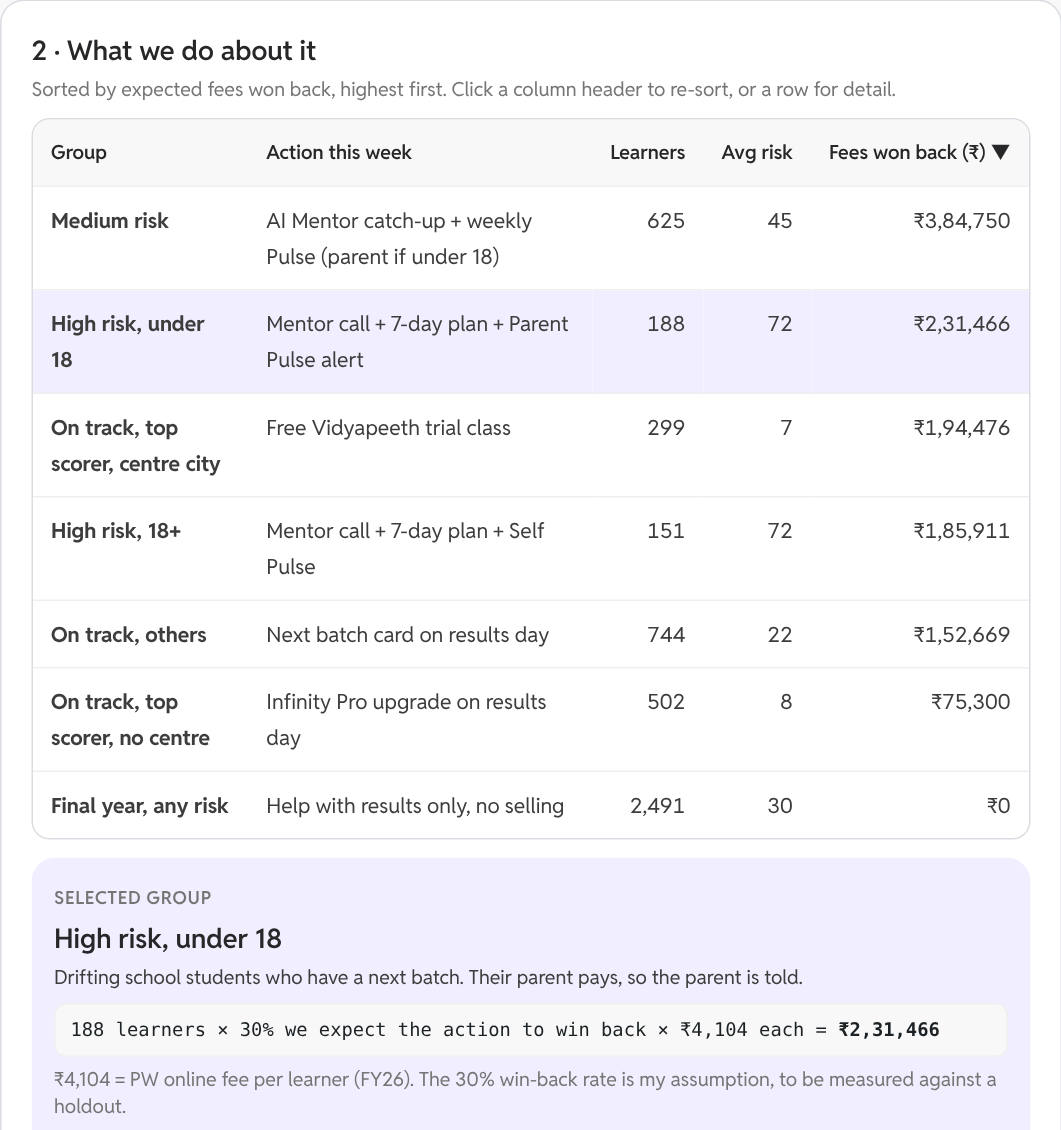
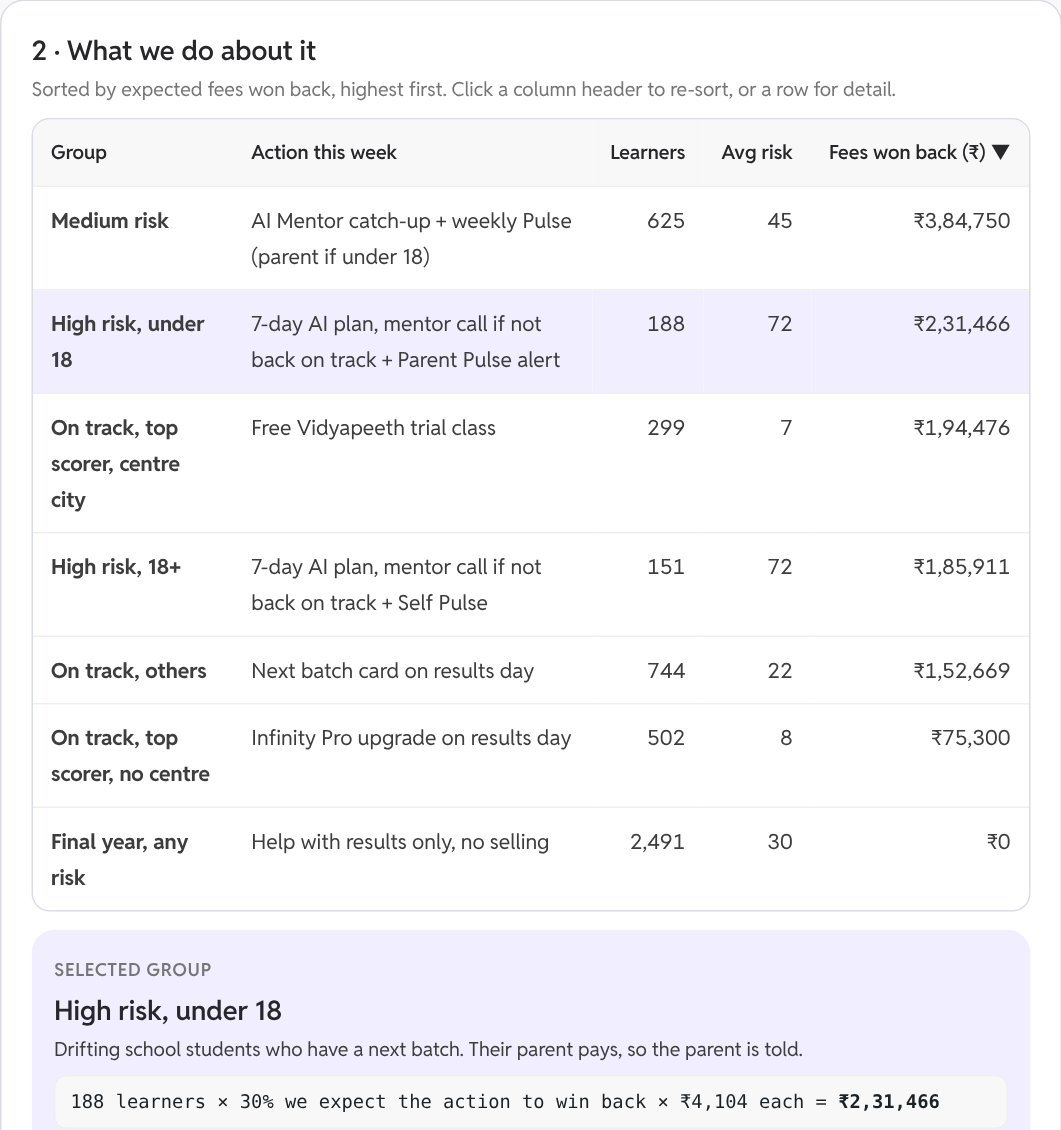
PW case study: price the bet, show a range, add user voices, fix three quotes (#224)
Four changes to /pw-study and its prototype, each checked by an independent
review against the source data.

1. Capacity and cost. The bet promised a human mentor call to every high-risk
   learner, under a "no extra counsellors" constraint. Rescue now escalates: a
   7-day AI comeback plan first, and a mentor call only if the learner is still
   high risk on day 8. Running costs are priced: the Weekly Pulse and offers at
   Meta's India WhatsApp rates (utility 0.115, marketing 0.8631 INR, from
   1 Oct 2026), mentor calls, and AI Mentor plans: 6.15 cr a year. Mentor load
   is about 1,220 hours a week, roughly 30 full-time mentors. The engine, the
   Pulse messages in English and Hindi, the console and the calculator all say
   the same thing, and the calculator now shows a net figure.

2. A range, not a point. Each uplift is shown at half and one and a half times
   base, anchored where possible: 36.5 / 79.1 / 121.8 cr net of running costs.
   The TL;DR and the heading quote the net, and the case study's base figure is
   read against the calculator by the suite.

3. User voice. 1,425 public reviews of the PW app and the Parent App, counted
   reproducibly: 105 of 677 Parent App reviews on Google Play mention reports or
   progress, 58% of them rated 1-3 stars. Six dated, verbatim quotes, no names.
   The reviews also surfaced a new risk, that the progress data itself is
   wrong, added to the risk table with its cheapest test.
[…]

diff --git a/pw-study/index.html b/pw-study/index.html
@@ -78,6 +78,11 @@ section.block:nth-of-type(even){background:#fff}
 @media (max-width:420px){.kpi b{font-size:24px;line-height:30px}.g2m .card{padding:14px}}
 .card{background:var(--surface);border:1px solid var(--border);border-radius:var(--r-card);padding:20px}
 .card.soft{background:var(--primary-50);border-color:transparent}
+.voices-head{display:grid;gap:6px;margin-bottom:12px;max-width:860px}
+.voices{grid-template-columns:repeat(auto-fit,minmax(260px,1fr))}
+.voice{margin:0;padding:16px;display:grid;gap:10px;align-content:space-between}
+.voice blockquote{margin:0;color:var(--heading);font-size:15px;line-height:23px}
+.voice figcaption{font-size:13px;line-height:18px;color:var(--muted)}
 .card.dark{background:var(--ink);border-color:var(--ink);color:#D5D9E0}
 .card.dark h3,.card.dark b{color:#fff}
 .kpi b{display:block;font-size:30px;line-height:36px;color:var(--heading);font-weight:700}
@@ -118,6 +123,8 @@ tr:last-child td{border-bottom:0}
 td.num,th.num{text-align:right;font-variant-numeric:tabular-nums;white-space:nowrap}
 tr.hl td{background:var(--primary-50)}
 .t-wide{min-width:760px} .t-mid{min-width:600px}
+/* The sizing tables carry the numbers that matter: they fit the screen instead of scrolling. */
+@media (max-width:699px){.t-fit th,.t-fit td{padding:10px 8px}}
 /* filters */
 .filters{display:flex;gap:8px;flex-wrap:wrap;margin-bottom:12px}
 .chip{border:1px solid var(--border);background:#fff;color:var(--ink);border-radius:var(--r-pill);padding:8px 14px;font-size:14px;font-weight:600;min-height:40px;font-family:inherit;cursor:pointer}
@@ -193,7 +200,7 @@ footer h3{color:#fff}
       <div class="card"><h3>1 · Two engines</h3><p class="small" style="margin-top:6px">Half of FY26 revenue is online at ₹4,104 per learner a year; offline earns ₹36,625 per student, about 9x more.</p></div>
       <div class="card"><h3>2 · Strong AI, aimed at sale one</h3><p class="small" style="margin-top:6px">Lead routing lifts revenue per lead ~10%; voice bots cut counselling cost ~75%; Ask AI and AI Guru answer doubts at scale.</p></div>
       <div class="card"><h3>3 · Retention tools exist, but scattered</h3><p class="small" style="margin-top:6px">Tracker 360, Prep Meter, the Parent App and 1:1 mentorship are live, but split across plans and apps, and mostly pull-based.</p></div>
-      <div class="card soft"><h3>4 · The bet</h3><p class="small" style="margin-top:6px">Agla Kadam: one layer that reads those signals for every learner, acts by risk and age, and personalises the next batch. My estimate: about ₹85.3 cr ($8.97M) a year.</p></div>
+      <div class="card soft"><h3>4 · The bet</h3><p class="small" style="margin-top:6px">Agla Kadam: one layer that reads those signals for every learner, acts by risk and age, and personalises the next batch. My estimate: ₹85 cr a year in extra collections, about ₹79 cr ($8.3M) after running costs, in a ₹36-122 cr range.</p></div>
     </div>
   </div>
 </section>
@@ -295,17 +302,17 @@ footer h3{color:#fff}
       <tbody>
         <tr data-s="live"><td><b>AI doubt solving</b></td><td><span class="tag live">Live</span></td><td>"24*7 Doubt Resolution powered by Ask AI Feature"; Ask AI 3.05M+ doubts at 91% satisfaction; AI Guru 99.45M+ queries.</td><td>Batch pages; Q4 FY26 letter</td></tr>
         <tr data-s="live"><td><b>AI counselling and lead AI</b></td><td><span class="tag live">Live</span></td><td>Voice bots handle 6,000+ calls a day at ~75% lower cost; smart lead routing gives "~10% higher revenue per lead"; a lead model processed 2+ crore leads.</td><td>Q4 FY26 letter</td></tr>
-        <tr data-s="live"><td><b>Study planner with on-track status</b></td><td><span class="tag live">Live</span></td><td>Tracker 360, "a PW study planner": "30 of 330 done · ends 9 Feb 2027 · 1 day behind schedule"; streaks; "Miss a day and the plan rebalances".</td><td>tracker360.pw.live; included in plans such as NEET 360</td></tr>
+        <tr data-s="live"><td><b>Study planner with on-track status</b></td><td><span class="tag live">Live</span></td><td>Tracker 360, "a PW study planner": shows tasks done against the plan, an end date and how many days the learner is "behind schedule"; streaks; "Miss a day and the plan rebalances around what is left".</td><td>tracker360.pw.live; included in plans such as NEET 360</td></tr>
         <tr data-s="live"><td><b>Chapter preparation tracker</b></td><td><span class="tag live">Live</span></td><td>Prep Meter (Backlog Killer): "Track your chapter-wise preparation level and get personalized roadmap".</td><td>Infinity plan inclusions</td></tr>
         <tr data-s="live"><td><b>Parent visibility</b></td><td><span class="tag live">Live</span></td><td>PW Parent App: "View their attendance, lecture, DPP, and test stats on the student dashboard"; 10L+ downloads, 4.0 rating; parent login at spd.pw.live.</td><td>Google Play com.pw.parent; App Store</td></tr>
-        <tr data-s="live"><td><b>Human mentorship</b></td><td><span class="tag live">Live</span></td><td>Infinity Pro "1:1 Mentorship": "Two 30-minute monthly mentor sessions with PW alumni"; Infinity "Topper Mentorship Program"; Prerna wellbeing teleconsultation.</td><td>Batch pages; Prerna page</td></tr>
+        <tr data-s="live"><td><b>Human mentorship</b></td><td><span class="tag live">Live</span></td><td>Infinity Pro "1:1 Mentorship": "Two 30-minute monthly sessions with PW alumni for career and strategy guidance"; Infinity "Topper Mentorship Program"; Prerna wellbeing teleconsultation.</td><td>Batch pages; Prerna page</td></tr>
         <tr data-s="live"><td><b>AI Mentor</b></td><td><span class="tag live">Live</span></td><td>0.52M+ users served (also available to non-PW students). Not visible on public web pages.</td><td>Q4 FY26 letter</td></tr>
         <tr data-s="part"><td><b>Continuation into next year</b></td><td><span class="tag part">Partial</span></td><td>Combo batches (e.g. Arjuna NEET 2026 + Lakshya NEET 2027); "Free Upcoming Versions"; Vishwas Diwas early buyers "automatically upgraded". CuriousJr only: "preview next year's course offerings and unlock early-enrollment benefits".</td><td>Batch pages; PW news; CuriousJr Play listing</td></tr>
         <tr data-s="part"><td><b>Online to offline</b></td><td><span class="tag part">Partial</span></td><td>Online batches mention "Exam guidance at our PW Offline centers"; Vidyapeeth counselling bookable through the app. No Vidyapeeth trial or demo class found.</td><td>Batch pages; Vidyapeeth Utsav page</td></tr>
         <tr data-s="none"><td><b>Weekly progress report to the learner</b></td><td><span class="tag none">Not found</span></td><td>Only test-performance reports and dashboards; no weekly summary pushed to the learner.</td><td>Searched site, store listings, filings</td></tr>
         <tr data-s="none"><td><b>WhatsApp updates to parents</b></td><td><span class="tag none">Not found</span></td><td>Parent data lives in the app; a parent has to open it. No push digest found.</td><td>Searched site, store listings</td></tr>
         <tr data-s="none"><td><b>Personalised next-batch recommendation on results day (main app)</b></td><td><span class="tag none">Not found</span></td><td>Next-year preview exists in CuriousJr only.</td><td>Searched site, store listings, filings</td></tr>
-        <tr data-s="none"><td><b>Renewal offer for existing online students</b></td><td><span class="tag none">Not found</span></td><td>Vidyapeeth offer FAQ: "The offer is mainly for new enrollments. Existing students may contact their respective centers".</td><td>Vidyapeeth offers page</td></tr>
+        <tr data-s="none"><td><b>Renewal offer for existing online students</b></td><td><span class="tag none">Not found</span></td><td>No renewal or loyalty price for existing online learners on batch pages, offer pages or store listings; the offers found were for new bookings, such as Vidyapeeth Utsav 2026 scholarships.</td><td>Batch and offer pages; Vidyapeeth Utsav page</td></tr>
         <tr data-s="none"><td><b>One layer connecting risk signals to actions</b></td><td><span class="tag none">Not found</span></td><td>Each tool sits in its own plan or app; no public evidence of a cross-plan drift signal that triggers mentor, parent or next-step actions.</td><td>Internal systems not visible publicly</td></tr>
       </tbody></table></div>
     <p class="small muted" style="margin-top:10px">Sorted Live → Partial → Not found. "Not found" means not publicly documented; logged-in experiences, push notifications and internal tools could differ.</p>
@@ -316,6 +323,17 @@ footer h3{color:#fff}
 <section class="block" id="gaps" aria-labelledby="gap-h">
   <div class="wrap">
     <div class="sec-head"><span class="num">05 · Shortcomings</span><h2 id="gap-h">Five places the model leaks revenue</h2></div>
+    <div class="voices-head"><h3>In learners' and parents' own words</h3>
+      <p class="small muted">I read 1,425 public reviews of the PW app and the PW Parent App (680 and 677 on Google Play, 68 on the App Store), collected 26 Oct 2026; the PW app ones are from 2026, the Parent App ones from Feb 2024 on. About half the PW app reviews are 5★ praise for the teaching; of the 270 rated 1-3★, 214 are about bugs or support. In the Parent App, 105 of 677 Google Play reviews (15.5%) mention reports, progress, attendance or results, and 61 of those (58%) rate it 1-3★, mostly because the data is missing, wrong or too thin; most of those are from 2024. Quoted verbatim; names left out.</p></div>
+    <div class="grid voices" id="voices">
+      <figure class="card voice"><blockquote>"It should have overall insights as well, like monthly and overall, and also option to check previous weeks or custom range data."</blockquote><figcaption>Parent App, App Store · 1★ · 3 Aug 2026</figcaption></figure>
+      <figure class="card voice"><blockquote>"the test records and my ward’s attendance are not showing on the portal yet."</blockquote><figcaption>Parent App, Google Play · 1★ · 17 Sep 2026</figcaption></figure>
+      <figure class="card voice"><blockquote>"my child is improving day by day. But your guidance and counseling can play a significant role to make the future of young ones."</blockquote><figcaption>Parent App, Google Play · 5★ · 16 Jul 2026</figcaption></figure>
+      <figure class="card voice"><blockquote>"I paid a hefty amount for the Shreshth 2.0 Infinity batch, yet it expired and I lost access to the content I purchased."</blockquote><figcaption>PW app, Google Play · 1★ · 9 Jul 2026</figcaption></figure>
+      <figure class="card voice"><blockquote>"Please add an option to hide expired batches from seeing while navigating through the 'my batches' section."</blockquote><figcaption>PW app, Google Play · 4★ · 22 Jul 2026</figcaption></figure>
+      <figure class="card voice"><blockquote>"there is mentioned that 1 to 1 mentorship but when we purchase the batch,then there is only paid no mentorship."</blockquote><figcaption>PW app, Google Play · 2★ · 5 Aug 2026</figcaption></figure>
+    </div>
+    <p class="small muted" style="margin:10px 0 20px">What this says: many parents want a pushed, periodic summary and do not trust the one they have to go and find; the end of a batch currently feels like a loss, not a next step; and mentorship promises have to be ones PW can keep, which is why human calls here are capped.</p>
     <div class="tbl"><table class="t-wide">
       <thead><tr><th style="width:22%">Shortcoming</th><th style="width:48%">Evidence</th><th style="width:30%">So what</th></tr></thead>
       <tbody>
@@ -353,7 +371,7 @@ footer h3{color:#fff}
     <div class="sec-head"><span class="num">07 · The bet</span><h2 id="bet-h">Agla Kadam ("next step"): a continuity layer on top of what PW already runs</h2><p>No new learning content, faculty or capex. It connects the signals PW already collects to actions PW already knows how to take, for every learner on every plan.</p></div>
     <div class="grid g3">
       <div class="card mod"><span class="k">01 · PULSE</span><h3 style="margin-top:4px">Spot drift early</h3><p class="small" style="margin-top:6px">A weekly drop-off risk score for every paid learner, read from Tracker 360 and Prep Meter progress, lecture pace, tests, inactivity and doubts. Every score shows its reasons.</p></div>
-      <div class="card mod o"><span class="k">02 · RESCUE</span><h3 style="margin-top:4px">Act by risk and age</h3><p class="small" style="margin-top:6px">High risk: human mentor call and a 7-day plan. Medium: AI Mentor catch-up. Plus a Weekly Pulse on WhatsApp that goes to the parent for under-18s and to the learner for adults, linking into the Parent App.</p></div>
+      <div class="card mod o"><span class="k">02 · RESCUE</span><h3 style="margin-top:4px">Act by risk and age</h3><p class="small" style="margin-top:6px">High risk: a 7-day AI comeback plan first; a human mentor calls only if the learner is still high risk after those 7 days, about 30 full-time mentors' worth of calls across PW. Medium: AI Mentor catch-up. Plus a Weekly Pulse on WhatsApp that goes to the parent for under-18s and to the learner for adults, linking into the Parent App.</p></div>
       <div class="card dark"><span class="k" style="font-size:12px;font-weight:700;letter-spacing:.06em;color:#B9B1FF">03 · NEXT STEP</span><h3 style="margin-top:4px">Personalise results day</h3><p class="small" style="margin-top:6px">A personal year report and the right next batch, plan upgrade or Vidyapeeth trial, timed to results and Vishwas Diwas. CuriousJr's next-year preview, extended to the main app. Offers only when on track.</p></div>
     </div>
     <div class="grid g2" style="margin-top:20px">
@@ -387,25 +405,41 @@ footer h3{color:#fff}
 <!-- IMPACT -->
 <section class="block" id="impact" aria-labelledby="im-h">
   <div class="wrap">
-    <div class="sec-head"><span class="num">09 · Sizing the prize</span><h2 id="im-h">My estimate: about ₹85 cr a year from learners PW already has</h2></div>
+    <div class="sec-head"><span class="num">09 · Sizing the prize</span><h2 id="im-h">My estimate: about ₹79 cr a year after costs, from learners PW already has</h2>
+      <p>A range, not a point: every uplift below is an assumption until a holdout proves it, so each is shown at half and one and a half times my base case. Running costs are priced from Meta's published WhatsApp rates and labelled estimates for the rest.</p></div>
     <div class="grid split">
-      <div class="tbl"><table class="t-mid">
-        <thead><tr><th>Lever</th><th>Formula (FY26 base)</th><th class="num">₹ cr</th><th class="num">US$</th></tr></thead>
+      <div class="tbl"><table class="t-fit" id="im-range">
+        <thead><tr><th>Lever (FY26 base)</th><th class="num">Low</th><th class="num">Base</th><th class="num">High</th></tr></thead>
         <tbody>
-          <tr><td>Re-enrolment into next batch</td><td>4.87M × 50% eligible × 4pp × ₹4,104</td><td class="num">40.0</td><td class="num">4.20M</td></tr>
-          <tr><td>Online to Vidyapeeth</td><td>4.87M × 35% in centre cities × 0.5% × ₹32,521 net of online fee</td><td class="num">27.7</td><td class="num">2.91M</td></tr>
-          <tr><td>Plan upgrade (Infinity, Infinity Pro)</td><td>(4.87M − 0.96M on premium) × 1.5pp × ₹3,000 gap</td><td class="num">17.6</td><td class="num">1.85M</td></tr>
-          <tr class="hl"><td><b>Total</b></td><td>≈ 2.2% of FY26 revenue</td><td class="num"><b>85.3</b></td><td class="num"><b>8.97M</b></td></tr>
+          <tr><td>Re-enrolment into next batch<br><span class="small muted">4.87M × 50% eligible × +2 / 4 / 6pp × ₹4,104</span></td><td class="num">20.0</td><td class="num">40.0</td><td class="num">60.0</td></tr>
+          <tr><td>Online to Vidyapeeth<br><span class="small muted">4.87M × 35% in centre cities × 0.25 / 0.5 / 0.75% × ₹32,521 net of online fee</span></td><td class="num">13.9</td><td class="num">27.7</td><td class="num">41.6</td></tr>
+          <tr><td>Plan upgrade (Infinity, Infinity Pro)<br><span class="small muted">(4.87M − 0.96M on premium) × +0.75 / 1.5 / 2.25pp × ₹3,000 gap</span></td><td class="num">8.8</td><td class="num">17.6</td><td class="num">26.4</td></tr>
+          <tr class="hl"><td><b>Extra collections</b> <span class="small muted">(₹ cr a year)</span></td><td class="num"><b>42.6</b></td><td class="num"><b>85.3</b></td><td class="num"><b>127.9</b></td></tr>
+          <tr><td>Less running costs<br><span class="small muted">WhatsApp Pulse and offers, mentor calls, AI Mentor plans; held at base</span></td><td class="num">−6.15</td><td class="num">−6.15</td><td class="num">−6.15</td></tr>
+          <tr class="hl"><td><b>Net of running costs</b> <span class="small muted">(₹ cr a year)</span></td><td class="num"><b>36.5</b></td><td class="num"><b>79.1</b></td><td class="num"><b>121.8</b></td></tr>
+          <tr><td>Net in US$ at ₹95.1</td><td class="num">3.84M</td><td class="num">8.32M</td><td class="num">12.81M</td></tr>
         </tbody></table></div>
       <div class="card soft">
         <h3>Read this honestly</h3>
         <ul class="small" style="margin-top:6px">
           <li><b>PW-disclosed:</b> 4.87M online payers, ₹4,104 ACPU, ₹36,625 offline ARPU, 960k premium enrolments.</li>
-          <li><b>My assumptions</b>, to be proven against a holdout: 50% have a next batch, +4pp re-enrolment, +1.5pp upgrades at a ₹3,000 price gap, 35% in centre cities, 0.5% move offline. I also treat the 960k premium enrolments (Curious Jr Power Batch, Infinity, Infinity Pro) as learners already on premium, which is an approximation.</li>
-          <li>These are collections, recognised over the batch. Every input is editable in the prototype's growth console.</li>
+          <li><b>Where each base uplift comes from.</b> Re-enrolment +4pp: my onboarding experiments at ET lifted subscriber retention 10%; on an assumed 40% renewal base that is 4pp. Upgrades +1.5pp is about 58,700 learners, 6% on top of PW's 960k premium enrolments; for scale, Vishwas Diwas 2026 sold 35k Infinity Pro plans in three weeks, so treat this as a stretch, not a floor. Vidyapeeth 0.5% is about 8,500 students, 1.8% of FY26 offline enrolments.</li>
+          <li><b>My other assumptions</b>, to be proven against a holdout: 50% have a next batch, 35% live in centre cities, and the 960k premium enrolments (Curious Jr Power Batch, Infinity, Infinity Pro) are learners already on premium, which is an approximation.</li>
+          <li>These are collections, recognised over the batch, net only of the programme's own running costs: build cost and the cost of serving the extra learners are not included. Figures are rounded; totals use unrounded values. Every input is editable in the prototype's growth console.</li>
         </ul>
       </div>
     </div>
+    <h3 style="margin-top:24px">What it costs to run, and who makes the calls</h3>
+    <div class="tbl" style="margin-top:10px"><table class="t-fit" id="im-cost">
+      <thead><tr><th style="width:26%">Cost</th><th style="width:52%">Volume and rate</th><th class="num" style="width:22%">₹ cr a year</th></tr></thead>
+      <tbody>
+        <tr><td><b>Weekly Pulse on WhatsApp</b></td><td>4.87M × 50% opted in × 52 weeks = 126.6M messages × ₹0.115 utility rate</td><td class="num">1.46</td></tr>
+        <tr><td><b>Next-step offers</b></td><td>One per learner with a next batch: 2.4M messages × ₹0.8631 marketing rate</td><td class="num">0.21</td></tr>
+        <tr><td><b>Human mentor calls</b></td><td>Only learners still high risk after the 7-day AI plan, final-year learners included: 4.87M × 13% high risk × 40% not recovered = 253,000 calls × ₹150 for a 15-minute call. One call per drift episode, one episode per learner a year</td><td class="num">3.80</td></tr>
+        <tr><td><b>AI Mentor plans</b></td><td>4.87M × 35% at risk × 4 plans a year × ₹1 per plan</td><td class="num">0.68</td></tr>
+        <tr class="hl"><td><b>Total running cost</b></td><td>Return on running cost: about 14x at base, 7x at low</td><td class="num"><b>6.15</b></td></tr>
+      </tbody></table></div>
+    <p class="small muted" style="margin-top:8px">WhatsApp rates are Meta's INR list rates for India, effective 1 Oct 2026. I price the Pulse as a utility message and offers as marketing; Meta decides the category, and if it bills the Pulse as marketing (₹0.8631) the Pulse costs ₹10.9 cr and the base net falls to ₹69.7 cr. Mentor cost, AI cost, opt-in, risk shares and recovery rate are my estimates. 253,000 calls of 15 minutes is about 1,220 mentor-hours a week of talk time, roughly 30 full-time mentors and more at exam peaks, drawn from PW's existing alumni mentor pool; if capacity runs short, calls go first to the learners with the most fees at stake and everyone else stays with the AI Mentor.</p>
   </div>
 </section>
 
@@ -434,6 +468,7 @@ footer h3{color:#fff}
       <thead><tr><th>Assumption</th><th>Why it could be wrong</th><th>Cheapest test</th></tr></thead>
       <tbody>
         <tr class="hl"><td><b>Drift is predictable early</b></td><td>Learners may drop off suddenly, close to exams</td><td>Backtest last year's data before building anything</td></tr>
+        <tr class="hl"><td><b>The signals are accurate</b></td><td>Parent App reviews report watch time and DPPs not updating: "It shows, 6 minutes of lectures progress when actually I did 2+ hours" (Google Play, 23 Sep 2024)</td><td>Reconcile one week of Tracker 360 and Parent App data with server logs; send no Pulse on a signal that fails</td></tr>
         <tr><td><b>People act on nudges</b></td><td>WhatsApp fatigue; reports get ignored</td><td>2-week Pulse pilot with opted-in parents and learners</td></tr>
         <tr><td><b>Offers do not feel pushy</b></td><td>An education brand loses trust fast</td><td>Copy test with complaint and opt-out guardrails</td></tr>
         <tr><td><b>Lift is incremental</b></td><td>Renewal may happen anyway via Vishwas Diwas and marketing</td><td>Keep a 10% holdout for every action</td></tr>

diff --git a/pw-study/prototype.html b/pw-study/prototype.html
@@ -306,7 +306,7 @@ footer .wrap{padding-top:16px;padding-bottom:24px;font-size:13px;line-height:19p
           <tbody>
             <tr data-a="minor"><td><b>Under 18</b></td><td>K-12, Class 11-12, boards</td><td><b>Parent Pulse</b>: parent, with consent taken at purchase (DPDP Act 2023 needs it for under-18s)</td></tr>
             <tr data-a="young"><td><b>18-21</b></td><td>JEE/NEET droppers, early college</td><td><b>Self Pulse</b>: learner. Parent gets a copy only if the learner opts in</td></tr>
-            <tr data-a="adult"><td><b>Adult aspirant</b></td><td>UPSC, govt exams, CA, NEET PG, skills</td><td><b>Self Pulse</b> + study-circle and mentor check-in. No parent channel</td></tr>
+            <tr data-a="adult"><td><b>Adult aspirant</b></td><td>UPSC, govt exams, CA, NEET PG, skills</td><td><b>Self Pulse</b> + study-circle check-in. No parent channel</td></tr>
           </tbody></table></div>
         <div style="display:flex;gap:10px;flex-wrap:wrap;margin-top:14px;align-items:center">
           <span class="label">Learner</span>
@@ -324,7 +324,7 @@ footer .wrap{padding-top:16px;padding-bottom:24px;font-size:13px;line-height:19p
         <ul class="plan">
           <li>The learner always sees exactly what is shared, and with whom.</li>
           <li>One report a week, max one alert in between. No fear or rank-shaming language.</li>
-          <li>High-risk cases go to a human mentor call, never only to a bot.</li>
+          <li>High-risk learners still behind after the 7-day plan get a human mentor call, never only a bot.</li>
           <li>Offers appear only at natural moments (results, batch end), never inside a risk alert.</li>
         </ul>
       </div>
@@ -395,11 +395,24 @@ footer .wrap{padding-top:16px;padding-bottom:24px;font-size:13px;line-height:19p
       <div class="row"><label for="m-arpu">Offline ARPU (₹)<small>FY26 disclosed: ₹36,625</small></label><input id="m-arpu" type="number" value="36625"></div>
       <div class="row"><label for="m-fx">₹ per US$<small>Mid-market, 25 Oct 2026</small></label><input id="m-fx" type="number" step="0.1" value="95.1"></div>
       <div id="levers" style="margin-top:8px"></div>
+      <p class="label" style="margin-top:14px">Running costs a year</p>
+      <div class="row"><label for="m-opt">Opted in to the Weekly Pulse (%)<small>Assumption</small></label><input id="m-opt" type="number" step="5" min="0" max="100" value="50"></div>
+      <div class="row"><label for="m-risk">At risk in a given week (%)<small>Assumption: the demo cohort shows 38%; sets AI Mentor plans</small></label><input id="m-risk" type="number" step="1" min="0" max="100" value="35"></div>
+      <div class="row"><label for="m-wa">WhatsApp utility message (₹)<small>Meta India rate, from 1 Oct 2026</small></label><input id="m-wa" type="number" step="0.001" min="0" value="0.115"></div>
+      <div class="row"><label for="m-mk">WhatsApp marketing message (₹)<small>Meta India rate, from 1 Oct 2026</small></label><input id="m-mk" type="number" step="0.0001" min="0" value="0.8631"></div>
+      <div class="row"><label for="m-hi">High risk, any learner (%)<small>Assumption: the demo cohort shows 13.1%</small></label><input id="m-hi" type="number" step="0.5" min="0" max="100" value="13"></div>
+      <div class="row"><label for="m-esc">Still high risk after the 7-day plan (%)<small>Assumption: one mentor call each, once a year</small></label><input id="m-esc" type="number" step="5" min="0" max="100" value="40"></div>
+      <div class="row"><label for="m-call">15-minute mentor call (₹)<small>Assumption</small></label><input id="m-call" type="number" step="10" min="0" value="150"></div>
+      <div class="row"><label for="m-ai">AI Mentor plan (₹ each, 4 a year)<small>Assumption</small></label><input id="m-ai" type="number" step="0.5" min="0" value="1"></div>
+      <div id="costs" style="margin-top:8px"></div>
       <div style="border-top:2px solid var(--primary-50);padding-top:12px;margin-top:4px">
         <p class="label">Annual incremental collections</p>
         <p class="bigtotal" id="m-total"></p>
         <p class="small" id="m-total-sub"></p>
         <div class="formula" id="m-total-f" style="margin-top:8px"></div>
+        <p class="label" style="margin-top:14px">Net of running costs</p>
+        <p class="bigtotal" id="m-net"></p>
+        <p class="small" id="m-net-sub"></p>
       </div>
     </div>
   </div>
@@ -482,10 +495,10 @@ function actions(s,res,p){
   var a=[], g=aud(p);
   var pulse = g==='minor' ? {t:'Parent Pulse alert',d:'To the consented parent: calm, specific, one thing they can do.'}
             : g==='young' ? {t:'Self Pulse alert',d:'Sent to '+p.name+'. Parent gets a copy only if '+p.name+' opted in.'}
-            : {t:'Self Pulse + study-circle check-in',d:'Adult learner: no parent channel. Peers and a mentor keep the streak going.'};
+            : {t:'Self Pulse + study-circle check-in',d:'Adult learner: no parent channel. Peers keep the streak going; a mentor steps in only at high risk.'};
   if(res.tier==='High'){
-    a.push({t:'Human mentor call within 24 hours',d:'Bot-first is wrong here: a real mentor rebuilds the plan with the learner.'});
-    a.push({t:'7-day catch-up plan in the app',d:'Backlog cut to the highest-weight chapters only.'});
+    a.push({t:'7-day AI comeback plan',d:'Backlog cut to the highest-weight chapters, scheduled by the AI Mentor.'});
+    a.push({t:'Mentor call on day 8 if still high risk',d:'If the plan has not worked in a week, a real mentor rebuilds it with the learner. Calls are capped to what PW\'s mentors can take.'});
     a.push(pulse);
   } else if(res.tier==='Medium'){
     a.push({t:'AI Mentor catch-up plan',d:'Three backlog lectures plus one short DPP, scheduled around '+(g==='adult'?'work or coaching hours':'school hours')+'.'});
@@ -550,7 +563,7 @@ function renderStudent(){
   el('st-lec').textContent = s.lec+'%'; el('st-test').textContent = s.test+'%'; el('st-streak').textContent = s.streak;
   var n = el('s-nudge'); n.className = 'nudge ' + (res.tier==='High'?'high':res.tier==='Medium'?'med':'low');
   var plan;
-  if(res.tier==='High'){ el('s-nudge-title').textContent='Your 7-day comeback plan'; plan=['Day 1-2: 2 backlog lectures (highest weightage first)','Day 3: 20-min DPP, solutions unlocked instantly','Day 4-6: 2 more lectures + doubt session','Day 7: mini-test to reset your score','Mentor call booked: tomorrow, 6:30 pm']; }
+  if(res.tier==='High'){ el('s-nudge-title').textContent='Your 7-day comeback plan'; plan=['Day 1-2: 2 backlog lectures (highest weightage first)','Day 3: 20-min DPP, solutions unlocked instantly','Day 4-6: 2 more lectures + doubt session','Day 7: mini-test to reset your score','Day 8: a mentor calls if you are still behind']; }
   else if(res.tier==='Medium'){ el('s-nudge-title').textContent='Catch up in 3 sessions'; plan=['Session 1: '+(behind||1)+' backlog lecture'+((behind||1)>1?'s':''),'Session 2: 15-question DPP on your weakest chapter','Session 3: ask at least 2 doubts on Ask AI']; }
   else { el('s-nudge-title').textContent='Great week. Keep the streak alive'; plan=['Next: Sunday full-length test','Bonus: 1 advanced problem set unlocked']; }
   el('s-plan').innerHTML = plan.map(function(x){return '<li>'+x+'</li>';}).join('');
@@ -617,11 +630,11 @@ function renderParent(){
   else ch.innerHTML='<b>Self Pulse.</b> '+p.name+' is '+p.age+' and preparing for an adult exam, so there is no parent channel. The report goes to '+p.name+', with a study-circle check-in.';
   var sh=el('pp-share'); if(sh) sh.addEventListener('change',function(){ppShare=sh.checked;renderParent();});
   el('wa-title').textContent = toParent?'PW Parent Pulse':'PW Study Pulse';
-  var hiMode = ppL==='hi', en, hi, mentor=toParent?(hiMode?'PW Parent App में देखें':'Open in PW Parent App'):(hiMode?'मेंटर से बात करें':'Talk to a mentor');
+  var hiMode = ppL==='hi', en, hi, mentor=toParent?(hiMode?'PW Parent App में देखें':'Open in PW Parent App'):(hiMode?'AI मेंटर से बात करें':'Talk to the AI Mentor');
   if(toParent){
     if(res.tier==='High'){
-      en = 'Namaste! Weekly update for '+p.full+' ('+p.batch+')\n\nThis week: '+s.lec+'% of lectures done vs batch pace, test average '+s.test+'%. '+p.name+' has not studied on the app for '+s.idle+' days.\n\nWhat we are doing: a PW mentor will call '+p.name+' tomorrow at 6:30 pm and a 7-day catch-up plan is ready in the app.\n\nOne thing you can do: ask '+p.name+' to show you the plan tonight. 10 minutes of your interest helps more than any reminder.';
-      hi = 'नमस्ते! '+p.full+' की साप्ताहिक रिपोर्ट\n\nइस हफ्ते: बैच की गति के मुकाबले '+s.lec+'% लेक्चर पूरे, टेस्ट औसत '+s.test+'%. '+p.name+' ने '+s.idle+' दिन से ऐप पर पढ़ाई नहीं की है.\n\nहम क्या कर रहे हैं: कल शाम 6:30 बजे PW मेंटर '+p.name+' को कॉल करेंगे और ऐप में 7 दिन का कैच-अप प्लान तैयार है.\n\nआप क्या कर सकते हैं: आज रात '+p.name+' से प्लान दिखाने को कहें. आपकी 10 मिनट की रुचि किसी भी रिमाइंडर से ज़्यादा असर करती है.';
+      en = 'Namaste! Weekly update for '+p.full+' ('+p.batch+')\n\nThis week: '+s.lec+'% of lectures done vs batch pace, test average '+s.test+'%. '+p.name+' has not studied on the app for '+s.idle+' days.\n\nWhat we are doing: a 7-day catch-up plan is ready in the app. If '+p.name+' is still behind after a week, a PW mentor will call.\n\nOne thing you can do: ask '+p.name+' to show you the plan tonight. 10 minutes of your interest helps more than any reminder.';
+      hi = 'नमस्ते! '+p.full+' की साप्ताहिक रिपोर्ट\n\nइस हफ्ते: बैच की गति के मुकाबले '+s.lec+'% लेक्चर पूरे, टेस्ट औसत '+s.test+'%. '+p.name+' ने '+s.idle+' दिन से ऐप पर पढ़ाई नहीं की है.\n\nहम क्या कर रहे हैं: ऐप में 7 दिन का कैच-अप प्लान तैयार है. अगर एक हफ्ते बाद भी '+p.name+' पीछे रहे, तो PW मेंटर कॉल करेंगे.\n\nआप क्या कर सकते हैं: आज रात '+p.name+' से प्लान दिखाने को कहें. आपकी 10 मिनट की रुचि किसी भी रिमाइंडर से ज़्यादा असर करती है.';
     } else if(res.tier==='Medium'){
       en = 'Namaste! Weekly update for '+p.full+' ('+p.batch+')\n\nThis week: '+s.lec+'% of lectures done, test average '+s.test+'%, '+s.streak+'-day study streak. '+(behind>0?p.name+' is '+behind+' lectures behind pace.':'')+'\n\nPlan: 3 short catch-up sessions are scheduled this week by the AI Mentor.\n\nYou will get the next update on Sunday.';
       hi = 'नमस्ते! '+p.full+' की साप्ताहिक रिपोर्ट\n\nइस हफ्ते: '+s.lec+'% लेक्चर पूरे, टेस्ट औसत '+s.test+'%, लगातार '+s.streak+' दिन पढ़ाई. '+(behind>0?p.name+' बैच से '+behind+' लेक्चर पीछे है.':'')+'\n\nप्लान: AI मेंटर ने इस हफ्ते 3 छोटे कैच-अप सेशन तय किए हैं.\n\nअगली रिपोर्ट रविवार को आएगी.';
@@ -632,8 +645,8 @@ function renderParent(){
   } else {
     var circle = g==='adult';
     if(res.tier==='High'){
-      en = 'Hi '+p.name+', your week at a glance\n\n'+s.lec+'% of lectures done vs batch pace, test average '+s.test+'%, '+s.idle+' days since your last session.\n\nYour mentor will call tomorrow at 6:30 pm. A 7-day comeback plan is ready in the app: start with just one lecture today.';
-      hi = 'Hi '+p.name+', आपका हफ्ता एक नज़र में\n\nबैच की गति के मुकाबले '+s.lec+'% लेक्चर पूरे, टेस्ट औसत '+s.test+'%, आखिरी सेशन '+s.idle+' दिन पहले.\n\nकल शाम 6:30 बजे आपके मेंटर कॉल करेंगे. ऐप में 7 दिन का कमबैक प्लान तैयार है: आज सिर्फ एक लेक्चर से शुरू करें.';
+      en = 'Hi '+p.name+', your week at a glance\n\n'+s.lec+'% of lectures done vs batch pace, test average '+s.test+'%, '+s.idle+' days since your last session.\n\nA 7-day comeback plan is ready in the app: start with just one lecture today. If you are still behind after a week, a mentor will call.';
+      hi = 'Hi '+p.name+', आपका हफ्ता एक नज़र में\n\nबैच की गति के मुकाबले '+s.lec+'% लेक्चर पूरे, टेस्ट औसत '+s.test+'%, आखिरी सेशन '+s.idle+' दिन पहले.\n\nऐप में 7 दिन का कमबैक प्लान तैयार है: आज सिर्फ एक लेक्चर से शुरू करें. अगर एक हफ्ते बाद भी आप पीछे रहे, तो आपके मेंटर कॉल करेंगे.';
     } else if(res.tier==='Medium'){
       en = 'Hi '+p.name+', your week at a glance\n\n'+s.lec+'% of lectures done, test average '+s.test+'%, '+s.streak+'-day streak.'+(behind>0?' You are '+behind+' lectures behind pace.':'')+'\n\nYour AI Mentor has planned 3 short catch-up sessions this week.'+(circle?' Your study circle checks in on Thursday.':'');
       hi = 'Hi '+p.name+', आपका हफ्ता एक नज़र में\n\n'+s.lec+'% लेक्चर पूरे, टेस्ट औसत '+s.test+'%, लगातार '+s.streak+' दिन.'+(behind>0?' आप बैच से '+behind+' लेक्चर पीछे हैं.':'')+'\n\nAI मेंटर ने इस हफ्ते 3 छोटे कैच-अप सेशन तय किए हैं.'+(circle?' गुरुवार को आपका स्टडी सर्कल चेक-इन करेगा.':'');
@@ -676,8 +689,8 @@ function buildConsole(){
   var avg=function(a){return a.length?Math.round(a.reduce(function(t,x){return t+x.risk;},0)/a.length):0;};
   var mk=function(seg,action,list,gap,price,why){return {seg:seg,action:action,list:list,n:list.length,avgRisk:avg(list),gap:gap,price:price,why:why};};
   rows=[
-    mk('High risk, under 18','Mentor call + 7-day plan + Parent Pulse alert',hi.filter(function(x){return x.nextBatch&&x.age<18;}),0.30,A,'Drifting school students who have a next batch. Their parent pays, so the parent is told.'),
-    mk('High risk, 18+','Mentor call + 7-day plan + Self Pulse',hi.filter(function(x){return x.nextBatch&&x.age>=18;}),0.30,A,'Drifting adult learners with a next batch. The report goes to them, not a parent.'),
+    mk('High risk, under 18','7-day AI plan, mentor call if not back on track + Parent Pulse alert',hi.filter(function(x){return x.nextBatch&&x.age<18;}),0.30,A,'Drifting school students who have a next batch. Their parent pays, so the parent is told.'),
+    mk('High risk, 18+','7-day AI plan, mentor call if not back on track + Self Pulse',hi.filter(function(x){return x.nextBatch&&x.age>=18;}),0.30,A,'Drifting adult learners with a next batch. The report goes to them, not a parent.'),
     mk('Medium risk','AI Mentor catch-up + weekly Pulse (parent if under 18)',me.filter(nb),0.15,A,'Slightly off pace. The AI Mentor can usually fix this without a human.'),
     mk('On track, top scorer, centre city','Free Vidyapeeth trial class',top.filter(function(x){return x.centre;}),0.02,ARPU-A,'Strong, engaged online learners near a PW centre: the best offline leads PW has.'),
     mk('On track, top scorer, no centre','Infinity Pro upgrade on results day',top.filter(function(x){return !x.centre;}),0.05,3000,'Strong learners far from a centre: offer the premium plan instead.'),
@@ -723,9 +736,9 @@ Array.prototype.forEach.call(document.querySelectorAll('#segtbl th button'),func
 el('reseed').addEventListener('click',function(){seed=Math.floor(Math.random()*1e9);buildConsole();});
 
 /* ---------- Impact model (live formulas) ---------- */
-var mids=['u','acpu','elig','ren','prem','upg','delta','city','off','arpu','fx'];
+var mids=['u','acpu','elig','ren','prem','upg','delta','city','off','arpu','fx','opt','risk','wa','mk','hi','esc','call','ai'];
 function renderModel(){
-  var v={}; mids.forEach(function(k){var x=parseFloat(el('m-'+k).value); v[k]=isFinite(x)&&x>0?x:0;}); ['elig','city'].forEach(function(k){v[k]=Math.min(v[k],100);}); var bad=v.fx<1; if(bad){v.fx=95.1;}
+  var v={}; mids.forEach(function(k){var x=parseFloat(el('m-'+k).value); v[k]=isFinite(x)&&x>0?x:0;}); ['elig','city','opt','risk','hi','esc'].forEach(function(k){v[k]=Math.min(v[k],100);}); var bad=v.fx<1; if(bad){v.fx=95.1;}
   var net=Math.max(v.arpu-v.acpu,0), base=Math.max(v.u-v.prem,0); var l1=v.u*(v.elig/100)*(v.ren/100)*v.acpu, l2=base*(v.upg/100)*v.delta, l3=v.u*(v.city/100)*(v.off/100)*net, t=l1+l2+l3, fx=v.fx;
   var L=[
     ['Re-enrolment into next batch',l1,'U × eligible% × uplift × ACPU = '+v.u.toLocaleString('en-IN')+' × '+v.elig+'% × '+v.ren+'% × '+INR(v.acpu)],
@@ -734,7 +747,20 @@ function renderModel(){
   ].sort(function(a,b){return b[1]-a[1];});
   el('levers').innerHTML=L.map(function(x){return '<div class="lever"><div class="lever-head"><b>'+x[0]+'</b><span><b>'+CR(x[1])+'</b> <span class="muted">('+USDM(x[1],fx)+')</span></span></div><div class="formula">'+x[2]+'</div></div>';}).join('');
   el('m-total').textContent=CR(t)+'  ·  '+USDM(t,fx);
-  el('m-total-sub').textContent='≈ '+(t/3900e7*100).toFixed(1)+'% of FY26 revenue (₹3,900 cr). These are collections, recognised over the batch, at near-zero marginal cost because content, faculty and seats already exist.'+(bad?' FX below 1 ignored; using ₹95.1.':'');
+  el('m-total-sub').textContent='≈ '+(t/3900e7*100).toFixed(1)+'% of FY26 revenue (₹3,900 cr). These are collections, recognised over the batch.'+(bad?' FX below 1 ignored; using ₹95.1.':'');
+  // Running costs: the Pulse goes every week to everyone who opted in.
+  var msgs=v.u*(v.opt/100)*52, cwa=msgs*v.wa, offers=v.u*(v.elig/100), cmk=offers*v.mk;
+  var calls=v.u*(v.hi/100)*(v.esc/100), ccall=calls*v.call, plans=v.u*(v.risk/100)*4, cai=plans*v.ai, cost=cwa+cmk+ccall+cai, netv=t-cost;
+  var C=[
+    ['Weekly Pulse on WhatsApp',cwa,'U × opted-in% × 52 weeks × utility rate = '+Math.round(msgs).toLocaleString('en-IN')+' messages × ₹'+v.wa],
+    ['Next-step offers',cmk,'U × eligible% × marketing rate = '+Math.round(offers).toLocaleString('en-IN')+' messages × ₹'+v.mk],
+    ['Mentor calls (escalations only)',ccall,'U × high-risk% × not recovered% × call cost = '+Math.round(calls).toLocaleString('en-IN')+' calls × '+INR(v.call)],
+    ['AI Mentor plans',cai,'U × at-risk% × 4 a year × plan cost = '+Math.round(plans).toLocaleString('en-IN')+' plans × ₹'+v.ai]
+  ].sort(function(a,b){return b[1]-a[1];});
+  el('costs').innerHTML=C.map(function(x){return '<div class="lever"><div class="lever-head"><b>'+x[0]+'</b><span><b>'+CR(x[1])+'</b></span></div><div class="formula">'+x[2]+'</div></div>';}).join('');
+  el('m-net').textContent=(netv<0?'−':'')+CR(Math.abs(netv))+'  ·  '+(netv<0?'−':'')+USDM(Math.abs(netv),fx);
+  var hrs=calls*0.25/52;
+  el('m-net-sub').textContent='Running costs '+CR(cost)+' a year'+(cost>0?'; return of '+(t/cost).toFixed(1)+'x on them':'')+'. Mentor calls need about '+Math.round(hrs).toLocaleString('en-IN')+' hours a week, roughly '+Math.round(hrs/40)+' full-time mentors. Build cost and the cost of serving the extra learners are not included.';
   el('m-total-f').textContent='Total = '+CR(l1)+' + '+CR(l3)+' + '+CR(l2);
 }
 mids.forEach(function(k){el('m-'+k).addEventListener('input',renderModel);});

diff --git a/scripts/pw-study.js b/scripts/pw-study.js
@@ -30,6 +30,10 @@
 // fail. MUT=dash plants an em dash; the dash check must fail.
 // MUT=auditnav and MUT=protonav remove the cross-links from the audit section
 // and from the prototype's intro; the matching navigation check must fail.
+// MUT=costdrift changes one running-cost input in the calculator; the check
+// that the case study's net figure matches the calculator must fail.
+// MUT=bigcall promises every high-risk learner a call within 24 hours again;
+// the escalation check must fail.
 const { chromium } = require('./_playwright.js');
 const vercel = require('../vercel.json');
 const BASE = process.env.BASE || 'http://127.0.0.1:8099';
@@ -55,6 +59,9 @@ function mutate(src) {
   if (MUT === 'dash') return src.replace('</body>', '<p>one \u2014 two</p></body>');
   if (MUT === 'auditnav') return src.replace(/<div class="hero-ctas" style="margin-top:6px"><a class="btn btn-outline sm" href="#top">.*?<\/div>/, '');
   if (MUT === 'protonav') return src.replace(/<div class="xlinks">.*?<\/div>/, '');
+  if (MUT === 'costdrift') return src.replace('id="m-wa" type="number" step="0.001" min="0" value="0.115"', 'id="m-wa" type="number" step="0.001" min="0" value="1.15"');
+  if (MUT === 'bigcall') return src.replace("t:'7-day AI comeback plan'", "t:'Human mentor call within 24 hours'")
+    .replace("What we are doing: a 7-day catch-up plan is ready in the app.", "What we are doing: a PW mentor will call tomorrow at 6:30 pm.");
   return src;
 }
 
@@ -127,6 +134,26 @@ async function caseStudy(browser, vp) {
 
   const over = await hScroll(page);
   check(`${L}: no horizontal page scroll`, over <= 0, over + 'px');
+
+  const range = await page.$$eval('#im-range tbody tr', (rs) => rs.map((r) => [...r.cells].map((c) => c.innerText.trim())));
+  const row = (label) => (range.find((r) => r[0].startsWith(label)) || []).slice(1);
+  check(`${L}: sizing shows low, base and high`, row('Extra collections').join() === '42.6,85.3,127.9', JSON.stringify(row('Extra collections')));
+  check(`${L}: sizing is net of running costs`, row('Net of running costs').join() === '36.5,79.1,121.8', JSON.stringify(row('Net of running costs')));
+  const costTotal = await page.$eval('#im-cost tr.hl td:last-child', (c) => c.innerText.trim()).catch(() => '');
+  // The figures are the point of these tables: none may sit past the edge of
+  // the table's own box, where a phone would have to scroll sideways to see it.
+  const hidden = await page.$$eval('#im-range td.num, #im-cost td.num', (cs) => cs.filter((c) => {
+    const box = c.closest('.tbl').getBoundingClientRect(); const r = c.getBoundingClientRect();
+    return r.right > box.right + 1 || r.left < box.left - 1;
+  }).map((c) => c.innerText.trim()));
+  check(`${L}: every sizing figure is visible without scrolling the table`, hidden.length === 0, hidden.slice(0, 6).join(' | '));
+  check(`${L}: running costs are itemised`, costTotal === '6.15', costTotal);
+  const voices = await page.$$eval('#voices figure', (fs) => fs.map((f) => [f.querySelector('blockquote').innerText, f.querySelector('figcaption').innerText]));
+  check(`${L}: at least six dated, rated user quotes`,
+    voices.length >= 6 && voices.every(([q, c]) => /^".+"$/.test(q.trim()) && /\d★ · \d{1,2} [A-Z][a-z]{2} \d{4}$/.test(c.trim())), voices.length + ' quotes');
+  const body = await page.evaluate(() => document.body.textContent);
+  const unverified = ['30 of 330', 'mainly for new enrollments', 'monthly mentor sessions'].filter((q) => body.includes(q));
+  check(`${L}: no quote that could not be verified`, unverified.length === 0, unverified.join(' | '));
   const d = await dashes(page);
   check(`${L}: no em/en dash`, d.length === 0, d.join(' | '));
   await page.waitForTimeout(300);
@@ -148,6 +175,13 @@ async function prototype(browser, vp) {
   }
   check(`${L}: Riya High, Aman Low, Meena Medium, Kabir Medium`,
     Object.keys(tiers).every((i) => got[i] === tiers[i]), JSON.stringify(got));
+
+  // High risk gets the AI plan first and a person only if it fails: a call for
+  // every high-risk learner is more mentor time than PW has.
+  await page.click('.persona-row .chip[data-p="0"]');
+  const steps = await page.$$eval('#e-actions .step b', (b) => b.map((x) => x.textContent.trim()));
+  check(`${L}: high risk escalates to a mentor, never calls everyone`,
+    steps[0] === '7-day AI comeback plan' && steps.some((t) => /^Mentor call on day 8/.test(t)) && !steps.some((t) => /24 hours/.test(t)), JSON.stringify(steps));
 
   // The card and the engine must not disagree about pace. A learner the card
   // calls ahead must not have an engine factor that says they are behind.
@@ -181,8 +215,20 @@ async function prototype(browser, vp) {
     kabir === 'PW Study Pulse' && amanBefore === 'PW Study Pulse' && amanAfter === 'PW Parent Pulse',
     `Kabir=${kabir} Aman=${amanBefore} -> ${amanAfter}`);
 
+  // Riya's high-risk Pulse, in both languages, states the escalation and never
+  // promises a call tomorrow: that is a promise PW's mentors cannot keep at scale.
+  await page.click('#pp-learner button[data-p="0"]');
+  const pulse = {};
+  for (const l of ['en', 'hi']) { await page.click(`#pp-lang button[data-l="${l}"]`); pulse[l] = norm(await page.textContent('#wa-body')); }
+  await page.click('#pp-lang button[data-l="en"]');
+  check(`${L}: Pulse escalates to a mentor after a week, in English and Hindi`,
+    /still behind after a week, a PW mentor will call/.test(pulse.en) && /एक हफ्ते बाद भी/.test(pulse.hi)
+      && !/tomorrow|6:30/.test(pulse.en) && !/कल शाम|6:30/.test(pulse.hi), pulse.en.slice(0, 120));
+
   const total = norm(await page.textContent('#m-total'));
   check(`${L}: impact total ₹85.3 cr · $8.97M`, total === '₹85.3 cr · $8.97M', total);
+  const netTxt = norm(await page.textContent('#m-net'));
+  check(`${L}: net of running costs ₹79.1 cr · $8.32M`, netTxt === '₹79.1 cr · $8.32M', netTxt);
 
   await page.click('#t-console');
   const head = norm(await page.textContent('#segtbl th:last-child'));
@@ -257,8 +303,26 @@ async function crossNav(browser, vp) {
   await ctx.close();
 }
 
+// The case study quotes the calculator's result. Read both and compare, so the
+// page can never claim a number the calculator does not produce.
+async function consistency(browser) {
+  const vp = VIEWPORTS[2];
+  const a = await open(browser, vp, '/pw-study');
+  const study = await a.page.$$eval('#im-range tbody tr', (rs) => {
+    const r = rs.find((x) => x.cells[0].innerText.trim().startsWith('Net of running costs'));
+    return r ? r.cells[2].innerText.trim() : '';
+  });
+  await a.ctx.close();
+  const b = await open(browser, vp, '/pw-study/prototype');
+  await b.page.click('#t-console');
+  const calc = (norm(await b.page.textContent('#m-net')).match(/₹(-?[\d.]+) cr/) || [])[1] || '';
+  await b.ctx.close();
+  check('case study net base matches the prototype calculator', study !== '' && study === calc, `case study ${study} vs calculator ${calc}`);
+}
+
 (async () => {
   const browser = await chromium.launch();
+  await consistency(browser);
   for (const vp of VIEWPORTS) {
     await caseStudy(browser, vp);
     await prototype(browser, vp);
